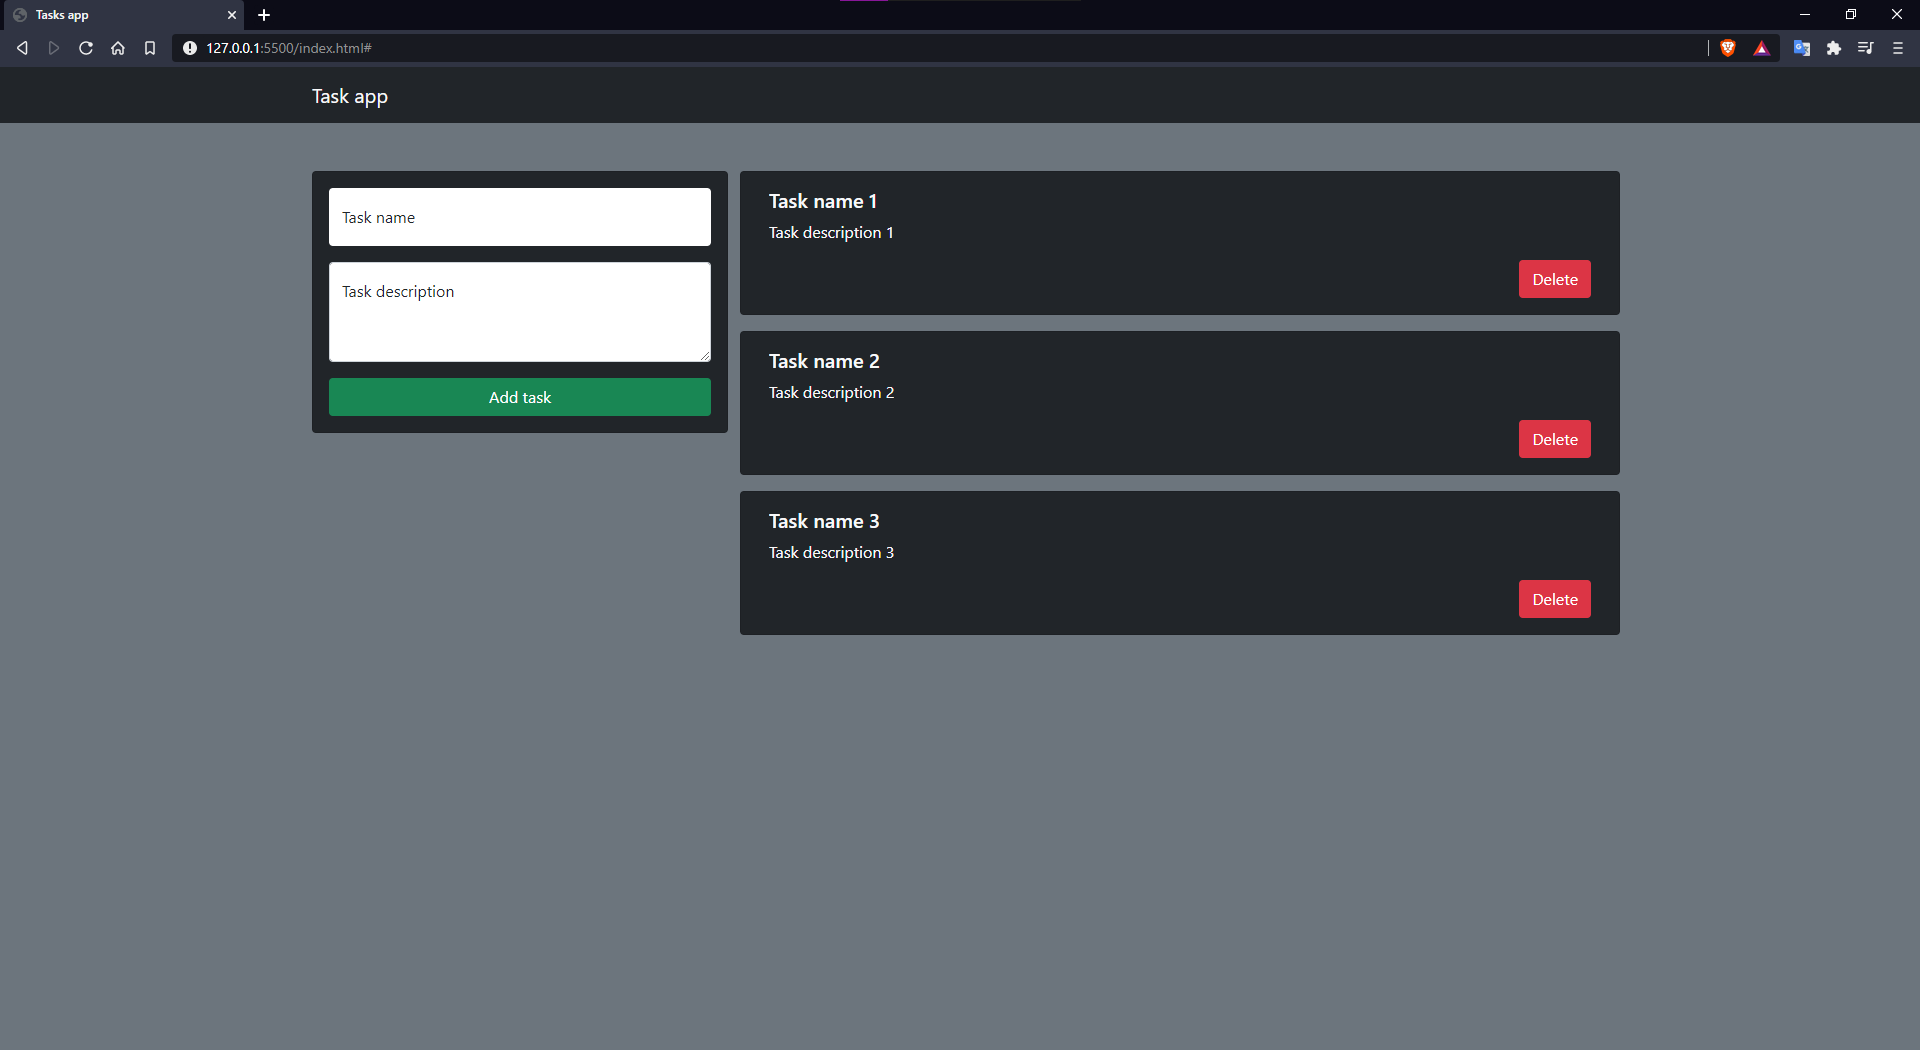
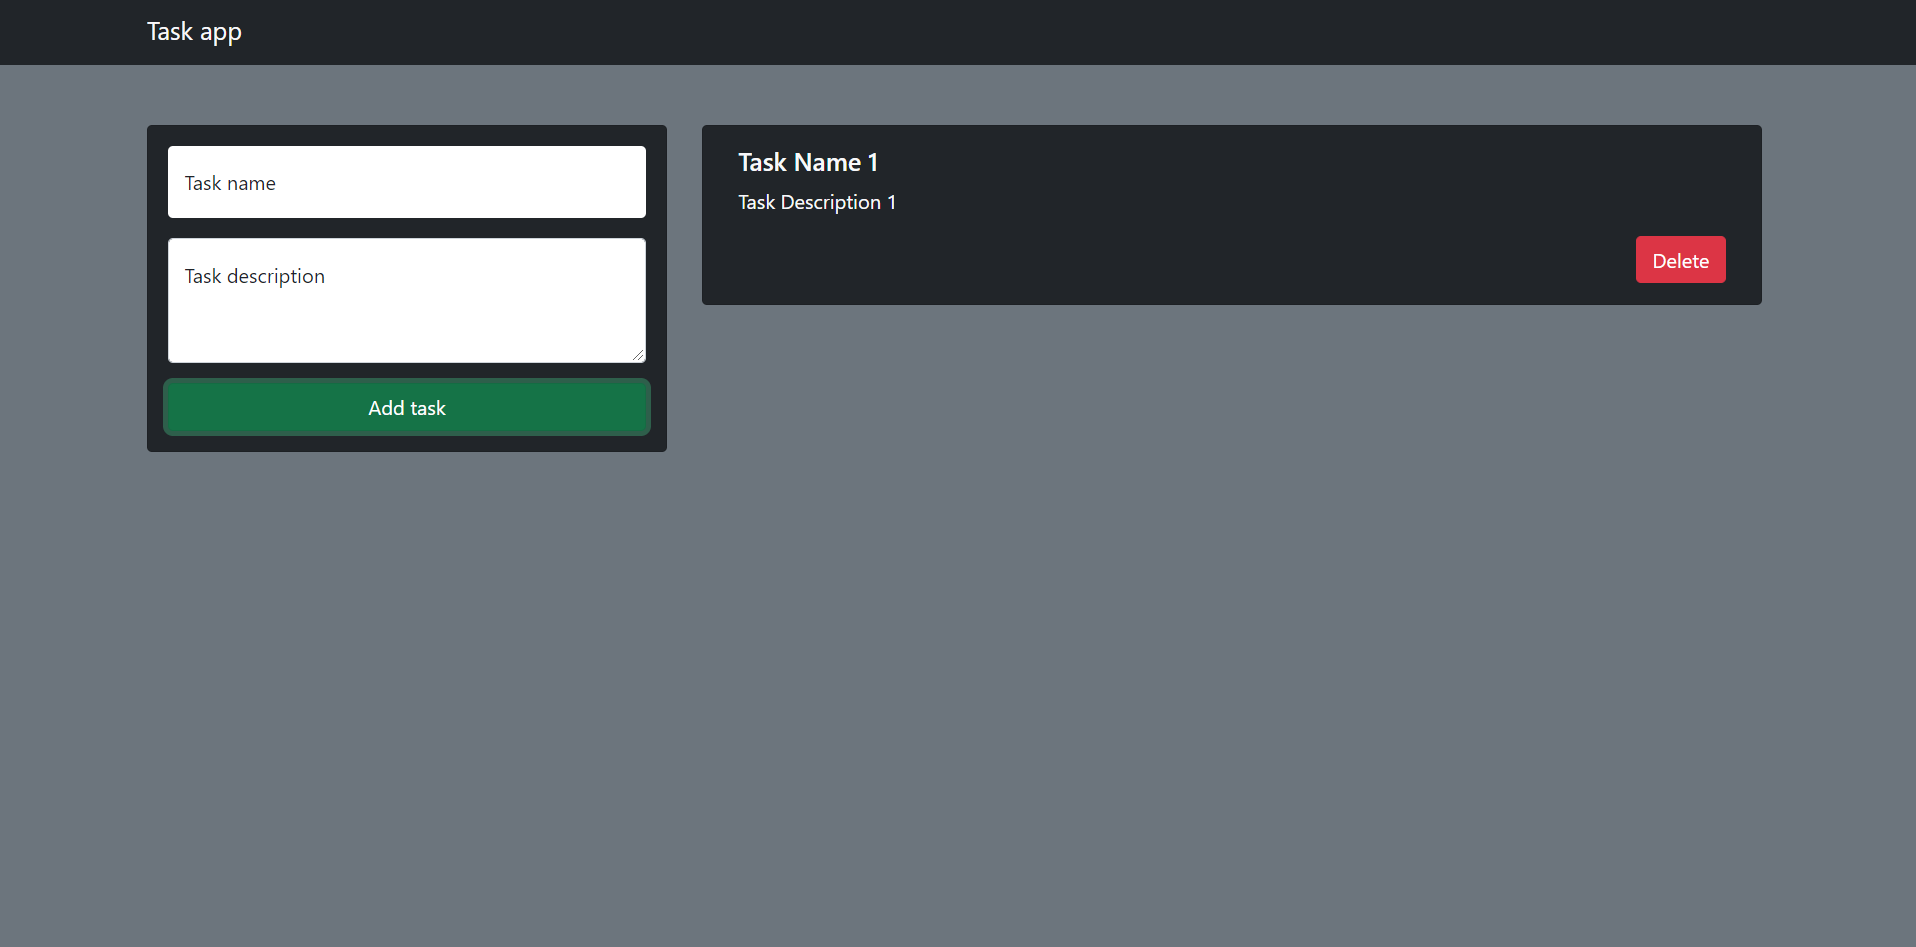
Modularizacion y Validacion

diff --git a/main.js b/main.js
@@ -1,61 +1,120 @@
-document.getElementById('formTask').addEventListener('submit', saveTask);
-
-function saveTask(e) {
-	e.preventDefault();
-	let title = document.getElementById('title').value;
-	let description = document.getElementById('description').value;
-
-	const task = {
-		title,
-		description
-	};
-
-	if (localStorage.getItem('tasks') === null) {
-		let tasks = [];
-		tasks.push(task);
-		localStorage.setItem('tasks', JSON.stringify(tasks));
-	} else {
-		let tasks = JSON.parse(localStorage.getItem('tasks'));
-		tasks.push(task);
-		localStorage.setItem('tasks', JSON.stringify(tasks));
-	}
-	getTasks();
-	document.getElementById('formTask').reset();
-	e.preventDefault();
+class Task {
+    constructor(title, description) {
+        this.title = title;
+        this.description = description;
+    }
 }
 
-function deleteTask(title) {
-	let tasks = JSON.parse(localStorage.getItem('tasks'));
-	for (let i = 0; i < tasks.length; i++) {
-		if (tasks[i].title == title) {
-			tasks.splice(i, 1);
-		}
-	}
-	localStorage.setItem('tasks', JSON.stringify(tasks));
-	getTasks();
+document.getElementById('formTask').addEventListener('submit', setTask);
+
+function createElementWithContent(element, content) {
+    const node = document.createElement(element);
+    node.textContent = content ?? "";
+    return node;
 }
 
+function createElementWithAttributes(element, attributes) {
+    const node = document.createElement(element);
+    for (const key in attributes) {
+        node.setAttribute(key, attributes[key]);
+    }
+    return node;
+}
 
+function createElementComplete(element, attributes, content) {
+    const node = document.createElement(element);
+    for (const key in attributes) {
+        node.setAttribute(key, attributes[key]);
+    }
+    node.textContent = content ?? "";
+    return node;
+}
+
+function isEmpty(task) {
+    let isEmpty = false
+    Object.entries(task).forEach(item => {
+        if (item[1] == "" || item[1] == undefined || item[1] == null) {
+            isEmpty = true;
+        }
+    })
+    return isEmpty;
+}
+
+isEmpty({a:"", b:""})
+
+function taskExist(task) {
+    return getTasks().find(currentTask => currentTask.title == task.title);
+}
+
+function setTask(e) {
+    e.preventDefault();
+    const form = new FormData(e.target);
+    const task = new Task(form.get("title"), form.get("description"));
+    if (!isEmpty(task)) {
+        if (!taskExist(task)) {
+            const tasks = getTasks();
+            tasks.push(task);
+            localStorage.setItem("tasks", JSON.stringify(tasks));
+            displayTasks();
+            document.getElementById('formTask').reset();
+        } else {
+            displayError("The task already exists")
+        }
+    } else {
+        displayError("Field is empty");
+    }
+}
+
+function deleteTask(titleTask) {
+    let tasks = JSON.parse(localStorage.getItem('tasks'));
+    tasks.forEach(item => {
+        if (item.title == titleTask) {
+            tasks.splice(item, 1);
+        }
+    });
+    localStorage.setItem('tasks', JSON.stringify(tasks));
+    displayTasks();
+}
+
+function createTaskCard({ title, description }) {
+    const row = createElementWithAttributes("div", { class: "row mx-1" });
+    const card = createElementWithAttributes("div", { class: "card mb-2 bg-dark text-light" });
+    const cardBody = createElementWithAttributes("div", { class: "card-body" });
+    const cardTitle = createElementWithAttributes("div", { class: "card-title" });
+    const h5title = createElementWithContent("h5", title);
+    const cardText = createElementComplete("p", { class: "card-text" }, description);
+    const btnDelete = createElementComplete("a", { id: title, class: "btn btn-danger float-end" }, "Delete");
+    row.appendChild(card);
+    card.appendChild(cardBody);
+    cardBody.appendChild(cardTitle);
+    cardTitle.appendChild(h5title);
+    cardBody.appendChild(cardText);
+    btnDelete.addEventListener("click", function (e) {
+        deleteTask(e.target.id);
+    });
+    cardBody.appendChild(btnDelete);
+    return row;
+}
+
+function displayError(mensaje) {
+    const alert = createElementComplete("div", { class: "alert alert-danger m-3" }, mensaje);
+    document.getElementById("menuAdd").appendChild(alert);
+    setTimeout(function () {
+        document.querySelector('.alert').remove();
+    }, 3000);
+}
+
+function displayTasks() {
+    document.getElementById("tasks").textContent = "";
+    getTasks().forEach(task => {
+        document.getElementById("tasks").appendChild(createTaskCard(task));
+    });
+}
 
 function getTasks() {
-	let tasks = JSON.parse(localStorage.getItem('tasks'));
-	let tasksView = document.getElementById('tasks');
-	tasksView.innerHTML = '';
-	for (let i = 0; i < tasks.length; i++) {
-		let title = tasks[i].title;
-		let description = tasks[i].description;
-
-		tasksView.innerHTML += `
-		<div class="row mx-1">
-	  		<div class="card mb-2 bg-dark text-light">
-				<div class="card-body">
-                	<div class="card-title"><h5>${title}</h5></div>
-    				<p class="card-text">${description}</p>
-					<a href="#" onclick="deleteTask('${title}')" class="btn btn-danger float-end">Delete</a>
-				</div>
-			</div>
-		</div>`;
-	}
+    const data = JSON.parse(localStorage.getItem('tasks'));
+    console.log(data);
+    return data ?? [];
 }
 
-getTasks();
+displayTasks();

diff --git a/index.html b/index.html
@@ -2,7 +2,7 @@
 <html lang="en">
 
 <head>
-    <meta charset="UTF-8">
+    <meta charset="UTF-16">
     <meta http-equiv="X-UA-Compatible" content="IE=edge">
     <meta name="viewport" content="width=device-width, initial-scale=1.0">
     <title>Tasks app</title>
@@ -22,16 +22,16 @@
     <!-- MAIN CONTENT -->
     <div class="container">
         <div class="row pt-5">
-            <div class="col-md-4 mb-2">
+            <div class="col-md-4 mb-2" id="menuAdd">
                 <div class="card bg-dark">
                     <div class="card-body">
                         <form id="formTask" autocomplete="off">
                             <div class="form-floating mb-3">
-                                <input type="text" id="title" class="form-control" style="border:0;" placeholder="Task name">
+                                <input type="text" id="title" name="title" class="form-control" style="border:0;" placeholder="Task name">
                                 <label for="title">Task name</label>
                             </div>
                             <div class="form-floating mb-3">
-                                <textarea id="description" cols="30" rows="20" placeholder="Task description"
+                                <textarea id="description" name="description" cols="30" rows="20" placeholder="Task description"
                                     class="form-control" style="height: 100px"></textarea>
                                 <label for="description">Task description</label>
                             </div>
@@ -41,8 +41,7 @@
                 </div>
             </div>
             <div class="col-md-8">
-                <div id="tasks">
-                </div>
+                <div id="tasks"></div>
             </div>
         </div>
     </div>

diff --git a/README.md b/README.md
@@ -16,6 +16,9 @@
 ## Screenshots📸
 
 ![Screenshot](Screenshot-Task-List.png)
+![Screenshot](Screenshot-Task-List-1.png)
+![Screenshot](Screenshot-Task-List-Mobile.png) ![Screenshot](Screenshot-Task-List-Mobile-1.png)
+
 
 ## Prueba 🎮
 
